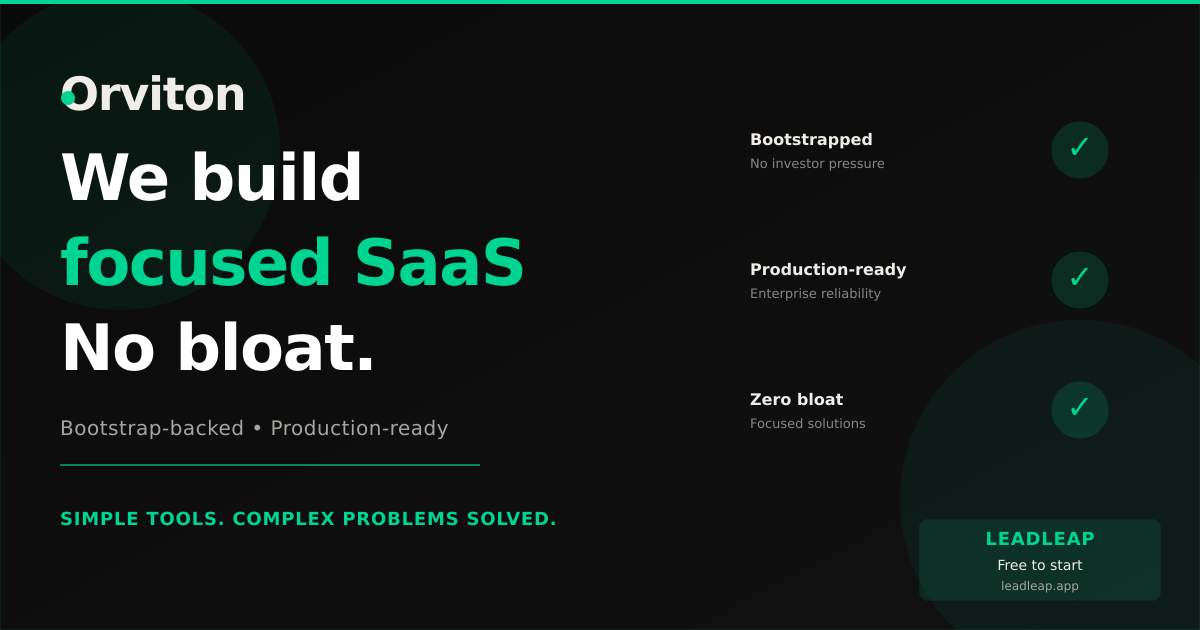
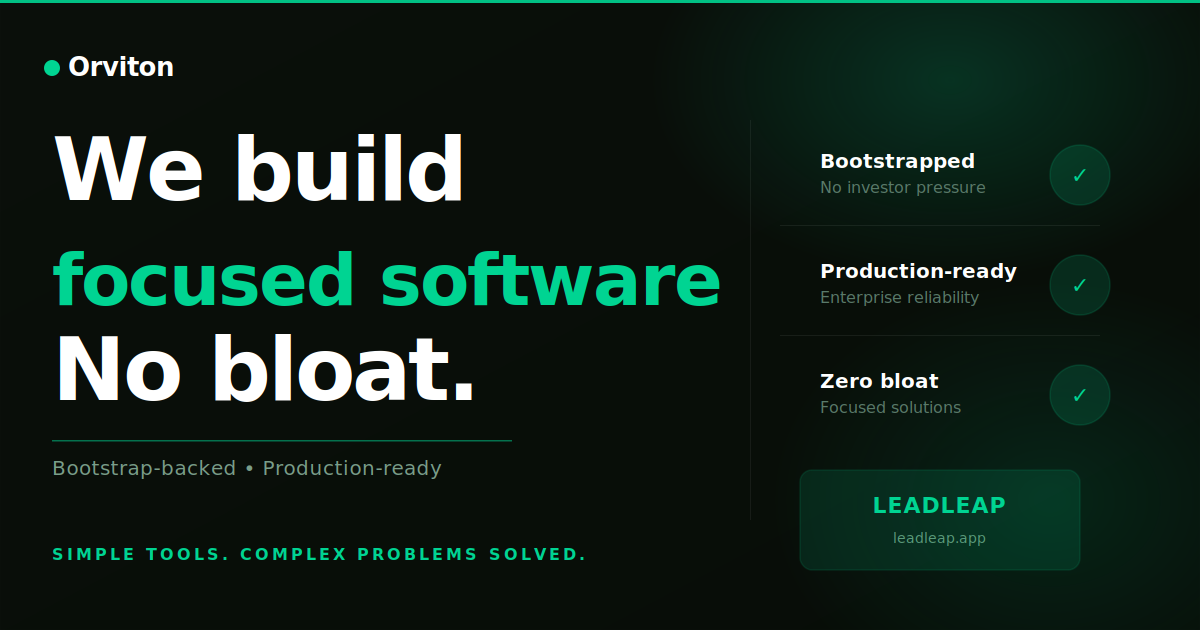
update saas to software

diff --git a/index.html b/index.html
@@ -10,9 +10,9 @@
   <!-- PRIMARY TITLE & DESCRIPTION -->
   <title>Orviton — Simple Tools. Complex Problems Solved.</title>
   <meta name="description"
-    content="Independent SaaS company building focused software tools. Simple solutions for complex business problems. Bootstrap-backed, production-ready, no bloat. LeadLeap + more coming.">
+    content="Independent software company building focused tools. Simple solutions for complex business problems. Bootstrap-backed, production-ready, no bloat. LeadLeap + more coming.">
   <meta name="keywords"
-    content="SaaS, software company, lead capture, CRM, email automation, business tools, independent software, focused tools">
+    content="software company, lead capture, CRM, email automation, business tools, independent software, focused tools">
 
   <!-- BRAND & AUTHOR -->
   <meta name="author" content="Orviton">
@@ -39,7 +39,7 @@
   <meta property="og:url" content="https://orviton.com/">
   <meta property="og:title" content="Orviton — Simple Tools. Complex Problems Solved.">
   <meta property="og:description"
-    content="Independent SaaS company. Simple solutions for complex business problems. Bootstrap-backed, production-ready infrastructure.">
+    content="Independent software company. Simple solutions for complex business problems. Bootstrap-backed, production-ready infrastructure.">
   <meta property="og:image" content="https://orviton.com/og-image.png">
   <meta property="og:image:width" content="1200">
   <meta property="og:image:height" content="630">
@@ -50,7 +50,7 @@
   <meta name="twitter:card" content="summary_large_image">
   <meta name="twitter:site" content="@orviton">
   <meta name="twitter:title" content="Orviton — Simple Tools. Complex Problems Solved.">
-  <meta name="twitter:description" content="Independent SaaS company building focused software tools for businesses.">
+  <meta name="twitter:description" content="Independent software company building focused tools for businesses.">
   <meta name="twitter:image" content="https://orviton.com/og-image.png">
 
   <!-- FONTS -->
@@ -66,10 +66,9 @@
   "@context": "https://schema.org",
   "@type": "Organization",
   "name": "Orviton",
-  "alternateName": "Orviton SaaS",
   "url": "https://orviton.com",
   "logo": "https://orviton.com/logo.png",
-  "description": "Independent SaaS company building focused software tools. Simple solutions for complex business problems.",
+  "description": "Independent software company building focused tools. Simple solutions for complex business problems.",
   "sameAs": [
     "https://twitter.com/orviton",
     "https://linkedin.com/company/orviton"
@@ -955,7 +954,7 @@
 
   <section class="hero">
     <div class="hero-left">
-      <div class="hero-tag">Independent SaaS</div>
+      <div class="hero-tag">Independent Software</div>
       <h1>Simple <span class="accent">tools.</span><br>Complex problems<br><span class="dim">solved.</span></h1>
       <p class="hero-desc">
         Orviton builds focused software for the problems other companies over-engineer. Bootstrap-backed.
@@ -1101,7 +1100,7 @@
       <span>Email automation</span>
       <span>SMTP delivery</span>
       <span>Bootstrap-backed</span>
-      <span>Independent SaaS</span>
+      <span>Independent Software</span>
       <span>No bloat</span>
       <span>Production-ready</span>
       <span>Lead capture</span>
@@ -1109,7 +1108,7 @@
       <span>Email automation</span>
       <span>SMTP delivery</span>
       <span>Bootstrap-backed</span>
-      <span>Independent SaaS</span>
+      <span>Independent Software</span>
       <span>No bloat</span>
       <span>Production-ready</span>
     </div>
@@ -1155,8 +1154,7 @@
   <footer>
     <div class="footer-brand">
       <a href="#" class="logo">Orvi<span>ton</span></a>
-      <p>Independent SaaS company. Building focused tools that solve real problems. Simple. Reliable. Uncompromising.
-      </p>
+      <p>Independent software company. Building focused tools that solve real problems. Simple. Reliable. Uncompromising.</p>
     </div>
     <div>
       <div class="footer-col-title">Products</div>
